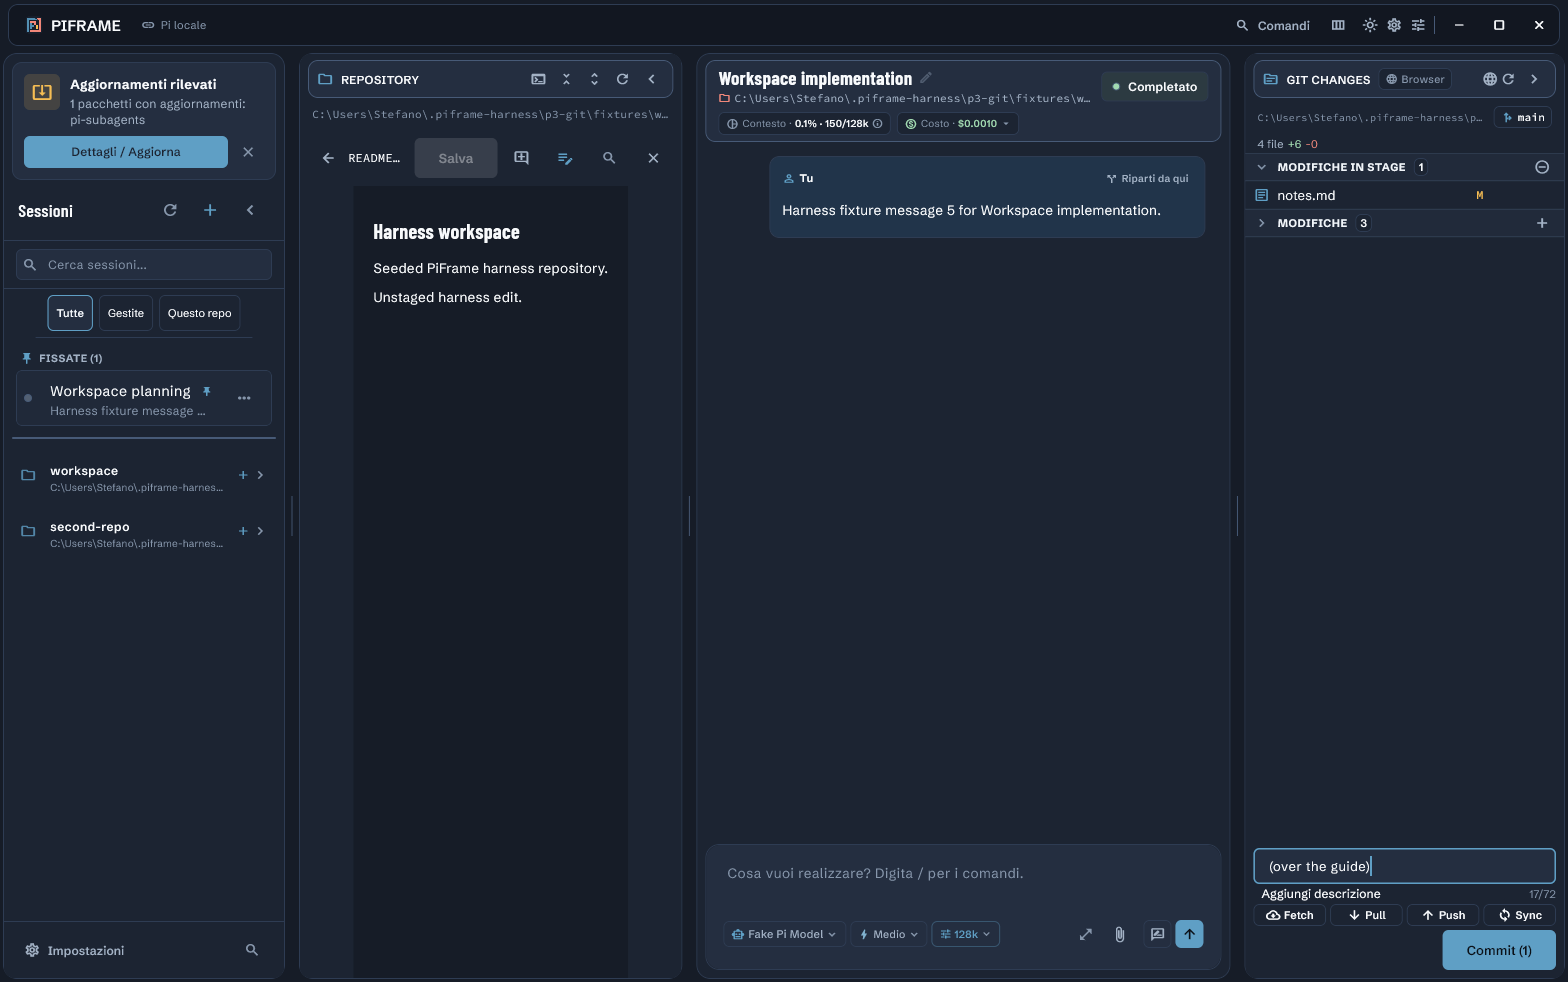
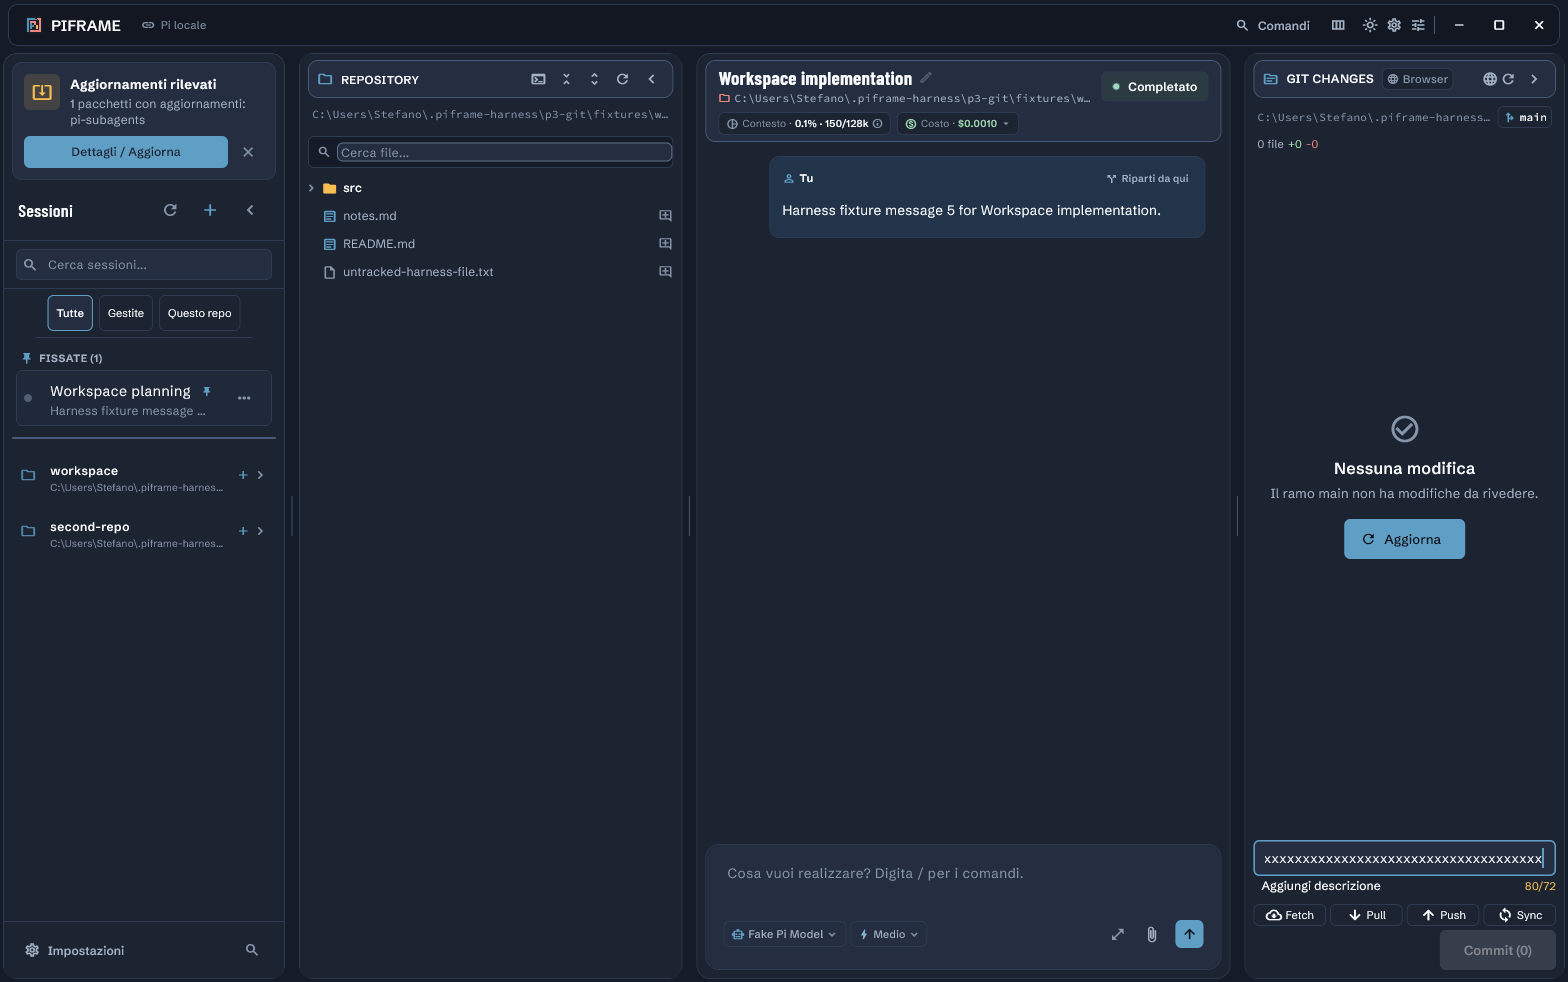
fix(ui): commit form keeps a gap above the remote buttons (task 3.5)
Audit of the 3.5 subject counter: it already counts the whole subject
(subject.text.length) and turns the warning tone past 72. The earlier
capture showed a short subject ("(over the guide)", 16 characters), not a
counter bug. The counter test now also types an 80-character subject and
expects "80/72" in the warning colour.

The "Aggiungi descrizione" row sat flush on Fetch/Pull/Push/Sync. An 8 px
gap (FrameSpace.x2) now separates them.

Test expectation changed: the writes-disabled layout test pane is 8 px
taller (360 + FrameSpace.x2) so notes.txt stays in view above the new gap.
The assertion is unchanged.

New captures: 3.5-after-over-72.png (dark, 80/72 warning) and
3.5-after-over-72-light.png.

diff --git a/apps/pi_frame/test/repository_workspace_test.dart b/apps/pi_frame/test/repository_workspace_test.dart
@@ -867,7 +867,7 @@ void main() {
             home: const Scaffold(
               body: SizedBox(
                 width: 380,
-                height: 360,
+                height: 360 + FrameSpace.x2,
                 child: GitChangesPane(sessionId: 'session-a'),
               ),
             ),
@@ -1096,10 +1096,31 @@ void main() {
         tester.widget<Text>(counter).style?.color,
         FrameTokens.light.warning,
       );
+
+      // The counter measures the whole subject, not a prefix of it.
+      await tester.enterText(subjectField, 'x' * 80);
+      await tester.pumpAndSettle();
+      expect(tester.widget<Text>(counter).data, '80/72');
+      expect(
+        tester.widget<Text>(counter).style?.color,
+        FrameTokens.light.warning,
+      );
       // The soft guide does not block the commit.
       expect(tester.widget<FilledButton>(commitButton).onPressed, isNotNull);
     },
   );
+
+  testWidgets('The commit form keeps a gap above the remote buttons', (
+    tester,
+  ) async {
+    await pumpCommitPane(tester, _StagedCommitClient());
+    final toggle = find.byKey(const ValueKey('git-commit-body-toggle'));
+    final fetch = find.byKey(const ValueKey('git-fetch-btn'));
+    expect(
+      tester.getTopLeft(fetch).dy - tester.getBottomLeft(toggle).dy,
+      greaterThanOrEqualTo(FrameSpace.x2),
+    );
+  });
 
   testWidgets('Compact layout spans Commit under the four remote buttons', (
     tester,

diff --git a/apps/pi_frame/lib/features/workspace/git/git_changes_pane.dart b/apps/pi_frame/lib/features/workspace/git/git_changes_pane.dart
@@ -1555,6 +1555,7 @@ class _GitChangesPaneState extends ConsumerState<GitChangesPane> {
                                       setState(() => _bodyOpen = !_bodyOpen),
                                   onCommit: _commit,
                                 ),
+                                const SizedBox(height: FrameSpace.x2),
                                 Row(
                                   children: [
                                     for (final (i, spec) in [
